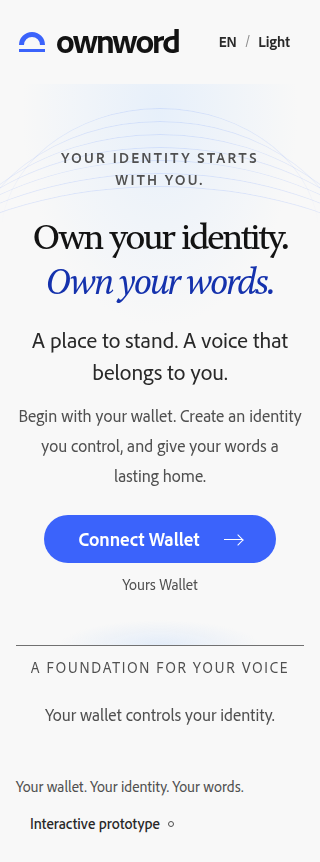
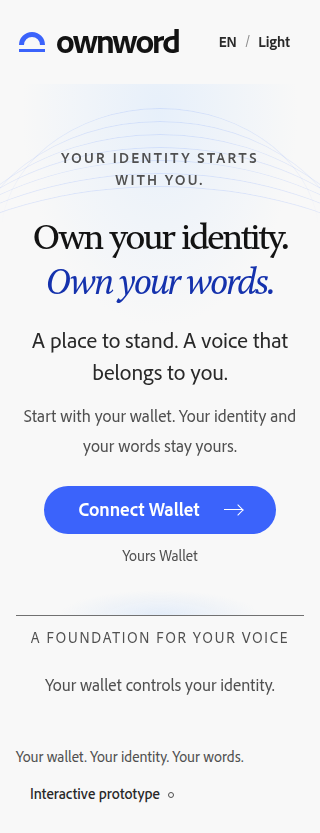
批3-b：按数据结论精简 7 条产品长正文（en+zh），436 项检查通过 (PRD v0.1_20260910-124101)

diff --git a/copy.js b/copy.js
@@ -4,29 +4,29 @@
   en: {
     connect: 'Connect Wallet', connected: 'Connected', notConnected: 'Not connected', connecting: 'Connecting', disconnect: 'Disconnect', accountSwitch: 'Switch account', wallet: 'Wallet',
     myIdentity: 'My Identity', publicIdentity: 'Public Identity', preferences: 'Preferences', theme: 'Theme', light: 'Light', dark: 'Dark', language: 'Language',
-    headlineOne: 'Own your identity.', headlineTwo: 'Own your words.', welcomeIntro: 'A place to stand. A voice that belongs to you.', welcomeBody: 'Begin with your wallet. Create an identity you control, and give your words a lasting home.',
+    headlineOne: 'Own your identity.', headlineTwo: 'Own your words.', welcomeIntro: 'A place to stand. A voice that belongs to you.', welcomeBody: 'Start with your wallet. Your identity and your words stay yours.',
     welcomeNote: 'Your wallet controls your identity.', horizonCaption: 'A foundation for your voice', domeLabel: 'Play the seven sky lines',
     walletNote: 'Yours Wallet', independent: 'Your identity starts with you.', footer: 'Your wallet. Your identity. Your words.', prototype: 'Interactive prototype', scenarios: 'Explore scenarios', close: 'Close',
     scenario: 'Wallet identity', new: 'New identity', existing: 'Published identity', incomplete: 'Incomplete profile', resolveFail: 'Resolution fails', missing: 'Wallet unavailable',
     simulatorNote: 'Demo only. No wallet connection, signature or transaction is sent.', simulatorHint: 'Choose a scenario, then connect or resolve again. Wallet confirmations let you approve, cancel or simulate failure.',
     resolveAgain: 'Resolve again', failClipboard: 'Simulate copy failure', reset: 'Reset session',
-    connectTitle: 'Connect Yours Wallet', connectBody: 'Allow this application to see your current wallet identity. Publishing requires a separate confirmation.', approve: 'Approve', cancel: 'Cancel', simulateFailure: 'Simulate failure',
-    connectCancelled: 'Connection cancelled', connectFailed: 'Connection failed', connectFailedBody: 'The wallet connection could not be completed. Your identity is unchanged. Try again.',
+    connectTitle: 'Connect Yours Wallet', connectBody: 'Let this app see your wallet identity. Publishing needs a separate confirmation.', approve: 'Approve', cancel: 'Cancel', simulateFailure: 'Simulate failure',
+    connectCancelled: 'Connection cancelled', connectFailed: 'Connection failed', connectFailedBody: 'Your identity is unchanged. Check your wallet and try again.',
     missingTitle: 'Yours Wallet is unavailable', missingBody: 'No supported wallet was found. Open Yours Wallet, then try again.', retry: 'Try Again',
-    resolving: 'Resolving your identity...', resolvingBody: 'Checking whether your wallet has a published identity.', resolveFailed: "Couldn't resolve identity", resolveFailedBody: 'Your wallet is connected, but the identity lookup failed. Try again or disconnect.',
-    setup: 'Identity Setup', setupHeading: 'Make it yours.', setupBody: 'Choose how your identity appears to the world.', complete: 'Complete your profile', completeBody: 'Your identity is already published. Add the missing profile information to continue.',
+    resolving: 'Resolving your identity...', resolvingBody: 'Checking whether your wallet has a published identity.', resolveFailed: "Couldn't resolve identity", resolveFailedBody: 'Try again, or disconnect and switch to another account.',
+    setup: 'Identity Setup', setupHeading: 'Make it yours.', setupBody: 'Choose how your identity appears to the world.', complete: 'Complete your profile', completeBody: 'Already published. Add the missing profile details to continue.',
     avatar: 'Avatar', chooseImage: 'Choose image', removeImage: 'Remove image', imageHint: 'Local PNG, JPEG or WebP. Optional.', invalidImage: 'Choose a valid PNG, JPEG or WebP image.', name: 'Name', required: 'Enter a name.', nameLong: 'Use 100 characters or fewer.', bioLong: 'Use 1000 characters or fewer.', typeRequired: 'Choose Person or Organization.',
     type: 'Type', Person: 'Person', Organization: 'Organization', bio: 'Bio', optional: 'Optional', review: 'Review', back: 'Back', profile: 'Profile', editProfile: 'Edit Profile', editHeading: 'A little more you.', editBody: 'Update how you appear. Your BAP ID stays the same.',
     reviewHeading: 'This is your identity.', reviewBody: 'Review the details before confirming in your wallet.', create: 'Create Identity', createImpact: 'Your identity and profile will become public.', saveImpact: 'Your updated profile will become public. Your BAP ID will not change.', localId: 'Locally computed · not yet published', published: 'Published', controlStatement: 'Your wallet controls this identity.',
     copy: 'Copy', copied: 'Copied', copyFailed: "Couldn't copy", copyBap: 'Copy full BAP ID', noBio: 'No bio yet.',
     createTitle: 'Confirm identity creation', saveTitle: 'Confirm profile update', simulatedWallet: 'Simulated wallet confirmation', currentIdentity: 'Current identity',
-    creating: 'Creating identity...', saving: 'Saving...', processingBody: 'Waiting for the operation to finish. You can disconnect or switch account to cancel this operation.',
+    creating: 'Creating identity...', saving: 'Saving...', processingBody: 'Waiting for the wallet. Disconnecting or switching account cancels this operation.',
     createCancelled: 'Creation cancelled', saveCancelled: 'Saving cancelled', retained: 'Your editing values are kept. Review them and try again when ready.',
     createFailed: "Couldn't create identity", saveFailed: "Couldn't save profile", operationFailedBody: 'The operation did not complete. Your values are kept. Try again.',
     ready: 'Your identity is ready', readyBody: 'You now have a place to stand. Your wallet remains in control.', goIdentity: 'Go to My Identity', saved: 'Saved',
     identityIntro: 'A constant in a changing world.', identityBody: 'Your public identity, under your control.', owner: 'Controlled by your connected wallet', profileDetails: 'Profile details', account: 'Wallet account',
     publicIntro: 'Your identity, in the open.', publicBody: 'A public view of the identity you control.', backIdentity: 'Back to My Identity', ownedByYou: 'Identity, owned by you.', rotate: 'Rotate identity', pauseRotation: 'Pause rotation', resetView: 'Reset view', angle: 'Viewing angle',
-    save: 'Save Changes', discardTitle: 'Discard unsaved changes?', discardBody: 'Your changes have not been saved. Keep editing, or discard them to leave this page.', keepEditing: 'Keep editing', discard: 'Discard changes',
+    save: 'Save Changes', discardTitle: 'Discard unsaved changes?', discardBody: 'Changes are not saved. Keep editing, or discard them to leave.', keepEditing: 'Keep editing', discard: 'Discard changes',
     accountChanged: 'Account changed. Pending operations were cancelled.', identityUnchanged: 'Your identity is unchanged.', current: 'Current', preferenceHint: 'Language and appearance stay on this device.', demoAccount: 'Demo account', demoData: 'Sample identity · prototype data',
     setupStep: 'Profile', reviewStep: 'Review', confirmStep: 'Confirm', doneStep: 'Ready', copyFailureOn: 'Copy failure simulation is on', privatePreview: 'Public view preview',
     walletStatus: 'Wallet status', persistFailed: 'Preferences could not be saved on this device.', reducedMotion: 'Reduced motion follows your device preference.',
@@ -35,29 +35,29 @@
   zh: {
     connect: '连接钱包', connected: '已连接', notConnected: '未连接', connecting: '正在连接', disconnect: '断开连接', accountSwitch: '切换账户', wallet: '钱包',
     myIdentity: '我的身份', publicIdentity: '公开身份', preferences: '偏好设置', theme: '主题', light: '浅色', dark: '深色', language: '语言',
-    headlineOne: '拥有你的身份。', headlineTwo: '拥有你的话语。', welcomeIntro: '立于自己的坐标，发出自己的声音。', welcomeBody: '从钱包开始，创建由你掌控的身份，让你的话语有一个长久的归属。',
+    headlineOne: '拥有你的身份。', headlineTwo: '拥有你的话语。', welcomeIntro: '立于自己的坐标，发出自己的声音。', welcomeBody: '从钱包开始。身份与话语，都由你掌控。',
     welcomeNote: '你的钱包掌控你的身份。', horizonCaption: '让话语有所立足', domeLabel: '拨动七条天幕线',
     walletNote: 'Yours Wallet', independent: '身份，由你开始。', footer: '你的钱包。你的身份。你的话语。', prototype: '交互原型', scenarios: '演练场景', close: '关闭',
     scenario: '钱包身份场景', new: '新身份', existing: '已发布身份', incomplete: '资料不完整', resolveFail: '解析失败', missing: '钱包不可用',
     simulatorNote: '仅作演示。不会连接钱包、签名或发送交易。', simulatorHint: '选择场景后连接或重新解析。钱包确认窗口支持批准、取消和模拟失败。',
     resolveAgain: '重新解析', failClipboard: '模拟复制失败', reset: '重置会话',
-    connectTitle: '连接 Yours Wallet', connectBody: '允许应用查看当前钱包身份。发布操作需要另行确认。', approve: '批准', cancel: '取消', simulateFailure: '模拟失败',
-    connectCancelled: '连接已取消', connectFailed: '连接失败', connectFailedBody: '无法完成钱包连接，身份未改变。请重试。',
+    connectTitle: '连接 Yours Wallet', connectBody: '允许应用查看钱包身份；发布时另行确认。', approve: '批准', cancel: '取消', simulateFailure: '模拟失败',
+    connectCancelled: '连接已取消', connectFailed: '连接失败', connectFailedBody: '身份未改变。请检查钱包后重试。',
     missingTitle: 'Yours Wallet 不可用', missingBody: '未发现支持的钱包。请打开 Yours Wallet 后重试。', retry: '重试',
-    resolving: '正在解析身份…', resolvingBody: '正在查询当前钱包是否已有公开身份。', resolveFailed: '无法解析身份', resolveFailedBody: '钱包已连接，但身份查询失败。请重试或断开连接。',
-    setup: '设置身份', setupHeading: '让身份属于你。', setupBody: '选择你向世界展示自己的方式。', complete: '完善你的资料', completeBody: '你的身份已发布。请补全资料后继续。',
+    resolving: '正在解析身份…', resolvingBody: '正在查询当前钱包是否已有公开身份。', resolveFailed: '无法解析身份', resolveFailedBody: '可重试，或断开后切换其他账户。',
+    setup: '设置身份', setupHeading: '让身份属于你。', setupBody: '选择你向世界展示自己的方式。', complete: '完善你的资料', completeBody: '身份已发布。补全资料后继续。',
     avatar: '头像', chooseImage: '选择图片', removeImage: '移除图片', imageHint: '本地 PNG、JPEG 或 WebP，可选。', invalidImage: '请选择有效的 PNG、JPEG 或 WebP 图片。', name: '名称', required: '请输入名称。', nameLong: '名称不能超过 100 个字符。', bioLong: '简介不能超过 1000 个字符。', typeRequired: '请选择个人或组织。',
     type: '类型', Person: '个人', Organization: '组织', bio: '简介', optional: '可选', review: '预览确认', back: '返回', profile: '资料', editProfile: '编辑资料', editHeading: '更真实地表达你。', editBody: '更新展示资料，BAP ID 保持不变。',
     reviewHeading: '这就是你的身份。', reviewBody: '核对资料后，在钱包中确认。', create: '创建身份', createImpact: '你的身份和资料将公开发布。', saveImpact: '更新后的资料将公开发布，BAP ID 保持不变。', localId: '已本地计算 · 尚未发布', published: '已发布', controlStatement: '你的钱包掌控此身份。',
     copy: '复制', copied: '已复制', copyFailed: '无法复制', copyBap: '复制完整 BAP ID', noBio: '尚未填写简介。',
     createTitle: '确认创建身份', saveTitle: '确认更新资料', simulatedWallet: '钱包确认模拟', currentIdentity: '当前身份',
-    creating: '正在创建身份…', saving: '正在保存…', processingBody: '正在等待操作完成。断开连接或切换账户可取消此操作。',
+    creating: '正在创建身份…', saving: '正在保存…', processingBody: '正在等待钱包返回。断开或切换账户会取消此操作。',
     createCancelled: '创建已取消', saveCancelled: '保存已取消', retained: '已保留填写内容。核对后可重新尝试。',
     createFailed: '无法创建身份', saveFailed: '无法保存资料', operationFailedBody: '操作未完成，已保留填写内容。请重试。',
     ready: '你的身份已就绪', readyBody: '现在，你有了自己的坐标。钱包始终由你掌控。', goIdentity: '前往我的身份', saved: '已保存',
     identityIntro: '变化之中，自有坐标。', identityBody: '你的公开身份，由你掌控。', owner: '由当前连接的钱包控制', profileDetails: '资料详情', account: '钱包账户',
     publicIntro: '让世界看到你。', publicBody: '查看你所掌控身份的公开展示。', backIdentity: '返回我的身份', ownedByYou: '身份，属于你。', rotate: '旋转身份', pauseRotation: '暂停旋转', resetView: '重置视角', angle: '查看角度',
-    save: '保存修改', discardTitle: '放弃未保存的修改？', discardBody: '修改尚未保存。可继续编辑，或放弃修改后离开。', keepEditing: '继续编辑', discard: '放弃修改',
+    save: '保存修改', discardTitle: '放弃未保存的修改？', discardBody: '修改未保存。继续编辑，或放弃后离开。', keepEditing: '继续编辑', discard: '放弃修改',
     accountChanged: '账户已切换，进行中的操作已取消。', identityUnchanged: '身份未改变。', current: '当前', preferenceHint: '语言与主题偏好保存在此设备。', demoAccount: '演示账户', demoData: '示例身份 · 原型数据',
     setupStep: '资料', reviewStep: '核对', confirmStep: '确认', doneStep: '就绪', copyFailureOn: '已开启复制失败模拟', privatePreview: '公开展示预览',
     walletStatus: '钱包状态', persistFailed: '无法在此设备保存偏好。', reducedMotion: '动画遵循设备的减少动态效果设置。',
